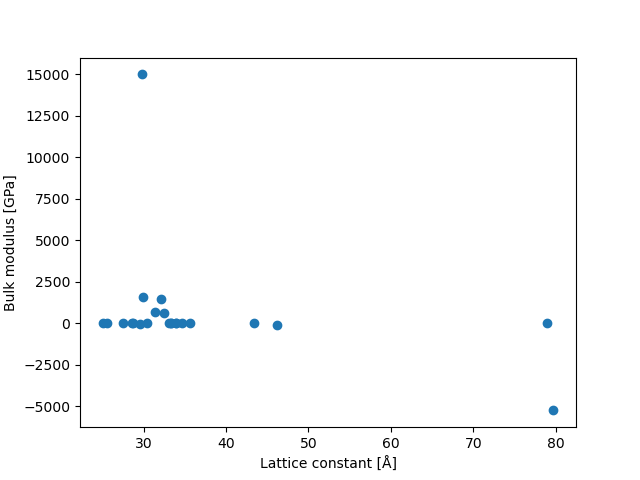
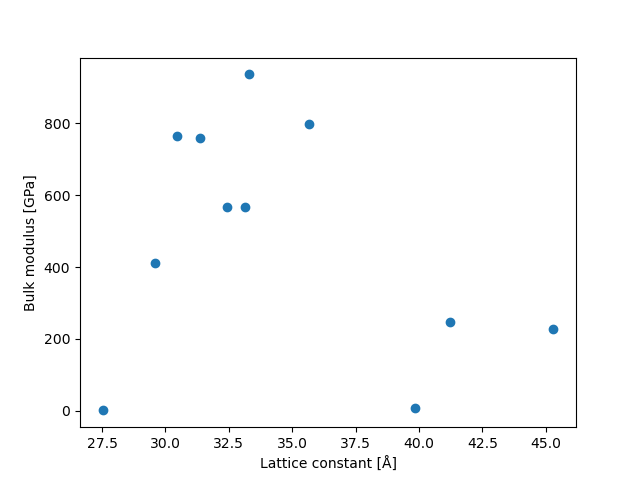
Fixed units in properties.py for specific heat etc and added a figure of filtered bulk modulus.

diff --git a/properties.py b/properties.py
@@ -8,7 +8,7 @@ from read_settings import read_settings_file
 import os
 # This file contains functions to calculate material properties
 
-def specific_heat(temp_store, N):
+def specific_heat(temp_store, N, atoms):
     """Calculates the specific heat for a material.
     Given by the formula: (E[T²] - E[T]²)/ E[T]² = 3*2^-1*N^-1*(1-3*N*Kb*2^-1*Cv^-1).
     Where Kb is boltzmansconstant, N is the total number of atoms, T is temperature and Cv the specific heat.
@@ -20,20 +20,21 @@ def specific_heat(temp_store, N):
     N (int): The total number of atoms in the material.
 
     Returns:
-    float: specific heat is returned (eV/K)
+    float: specific heat is returned (J/(K*Kg))
     """
     if len(temp_store) == 0:
         raise ValueError("temp_store is empty, invalid value.")
     steps = len(temp_store)
+    z = sum(atoms.get_masses()) * units._amu # total mass: atomic units to kg
     # Set M = (E[T²] - E[T]²)/ E[T]²
     ET = sum(temp_store)/steps
     ET2 = sum(np.array(temp_store)**2)/steps
     M = (ET2 - ET**2)/ET**2
-    Cv = -9*N*units.kB/(4*N*M-6)
+    Cv = -9*N*units.kB/(4*N*M-6)/z*units._e # specific heat J/(K*Kg)
     return Cv
 
 def distance2(pos1, pos2):
-    """Calculates the sqared distance between two atoms in 3D space"""
+    """Calculates the sqared distance between two atomsx in 3D space"""
     return (pos1[0] - pos2[0])**2 + (pos1[1] - pos2[1])**2 + (pos1[2] - pos2[2])**2
 
 def distance(pos1, pos2):
@@ -137,7 +138,7 @@ def self_diff(a, msd, time):
         sd = "_"
     else:
         sd = msd/(6*time)
-    return sd
+    return sd * 10 # units: mm^2 / s
 
 def initialize_properties_file(a, id, d, ma):
     """Initializes a file over properties with correct titles and main structure
@@ -173,7 +174,7 @@ def initialize_properties_file(a, id, d, ma):
 
     file.write("\n")
     file.write(lj("fs")+lj("eV/atom")+lj("eV/atom")+lj("eV/atom")+lj("K",2)+lj("Å^2"))
-    file.write(lj("Å^2/fs")+lj("Å",3)+lj("Å",3)+lj("Å",3))
+    file.write(lj("mm^2/s")+lj("Å",3)+lj("Å",3)+lj("Å",3))
     file.write(lj("Å^3/atom")+lj("eV/Å^3"))
     if ma:
         file.write(lj("K",2)+lj("1"))
@@ -279,7 +280,7 @@ def finalize_properties_file(a, id, d, ma):
     pr_t = sum(pr)/steps
     debye_t = sum(debye)/steps
     linde_t = sum(linde)/steps
-    Cv = specific_heat(temp, len(a.get_chemical_symbols()))
+    Cv = specific_heat(temp, len(a.get_chemical_symbols()), a)
 
     file=open("property_calculations/properties_"+id+".txt", "a+")
     file.write("\nTime averages:\n")
@@ -297,8 +298,8 @@ def finalize_properties_file(a, id, d, ma):
     file.write("\n")
 
     file.write(lj(" ")+lj("eV/atom")+lj("eV/atom")+lj("eV/atom")+lj("K",2)+lj("Å^2"))
-    file.write(lj("Å^2/fs")+lj("eV/Å^3"))
-    file.write(lj("eV/K"))
+    file.write(lj("mm^2/s")+lj("eV/Å^3"))
+    file.write(lj("J/(K*Kg)"))
     
     if ma:
         file.write(lj("K",2)+lj("1"))

diff --git a/analysis.py b/analysis.py
@@ -8,7 +8,6 @@ import glob
 import properties as pr
 
 def find_eq_lc(fnames):
-
     """
     Parameters:
     fnames (list): A list of strings of file path/names
@@ -104,7 +103,6 @@ def extract():
     def lj(str, k = d):
         return " "+str.ljust(k+10)
 
-
     file.write(lj("Material")+lj("Cohesive energy")+lj("MSD")+lj("Self_diff")+lj("Specific heat"))
 
     if settings['vol_relax']:
@@ -169,6 +167,13 @@ def plot_properties():
             debye.append(float(x.split()[8]))
             linde.append(float(x.split()[9]))
 
+    bulk_m_filtered = []
+    latt_c_filtered = []
+    for i, value in enumerate(bulk_m):
+        if value != 0 and abs(value) < 1000 and value > 0:
+            bulk_m_filtered.append(value)
+            latt_c_filtered.append(latt_c[i])
+            
     f.close()
     #Plotting mean square displacment vs self diffusion const
     # in figure 1
@@ -181,7 +186,7 @@ def plot_properties():
     pyplot.savefig("figures/MSD-SD.png")
     
     pyplot.figure(2)
-    pyplot.scatter(latt_c,bulk_m)
+    pyplot.scatter(latt_c_filtered,bulk_m_filtered)
     pyplot.xlabel("Lattice constant [Å]")
     pyplot.ylabel("Bulk modulus [GPa]")
     pyplot.savefig("figures/LC-BM.png")
@@ -192,11 +197,11 @@ def plot_properties():
     pyplot.ylabel("Cohesive energy [eV/atom]")
     pyplot.savefig("figures/LC-Ecoh.png")
 
-    #pyplot.figure(3)
-    #pyplot.scatter(latt_c, coh_en)
-    #pyplot.xlabel("Lattice constant [Å]")
-    #pyplot.ylabel("Cohesive energy [eV/atom]")
-    #pyplot.savefig("figures/LC-Ecoh.png")
+    pyplot.figure(4)
+    pyplot.scatter(latt_c, inter_latt_c)
+    pyplot.xlabel("Lattice constant [Å]")
+    pyplot.ylabel("Interpolated lattice constant [Å]")
+    pyplot.savefig("figures/LC-inter_LC.png")
     
     pyplot.show()
                                 
